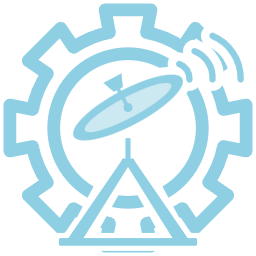
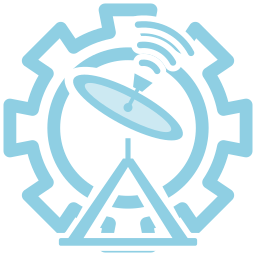
The dish faces its signal (#97)
## Summary

The brand's dish glyph aimed up and to the left while its signal arcs
sat at the upper right. The set was redrawn in Claude Design ("Dish Ray
Alignment", variant B, move the dish): the reflector is mirrored to +28°
and the arcs become concentric on the feed horn, aimed down the
boresight. Base, pole and gear are unchanged.

- The eight state glyphs under `packaging/brand` (`dish-master`, `dish`,
`dish-connected`, `dish-disabled`, `dish-off`, `dish-receiving`,
`dish-receiving-animated`, `dish-scanning-animated`) are the design's
files with their C2PA provenance `<metadata>` block removed.
- The app mark (`packaging/brand/dish-logo.svg`, `packaging/dish.svg`)
takes the same geometry: reflector +28°, halo cut 14, the three new
arcs.
- `packaging/dish.png` and `dish.ico` (the window icon, the installer
icon) are re-rendered from the mark with the website's sharp pipeline
(density 384, contain, transparent). The previous files had the same
geometry as a sharp render and differed only in edge anti-aliasing.
- The animated glyphs still carry no SMIL, and BrandGlyph keeps falling
back to the family base for `-animated` names, so nothing changes in how
the app draws them.
- CHANGELOG: a new Unreleased section above 2.2.0.

The same change lands in the other four repos on a branch of the same
name (`feat/dish-faces-its-signal`); the eight glyph files are
byte-identical across them.

Changed region(s): [[0.25, 0.0312, 0.9688, 0.5625]]

diff --git a/CHANGELOG.md b/CHANGELOG.md
@@ -21,6 +21,15 @@ share a version number.
 
 ---
 
+## [Unreleased]
+
+### Changed
+
+- **The dish faces its signal.** The dish glyph aimed up and to the left while
+  the signal arcs sat at the upper right. The reflector now points at the
+  signal in every state glyph and in the app mark, so the window icon, the
+  tray icon and the installer read the same way.
+
 ## [2.2.0] - 2026-10-04
 
 ### Added
